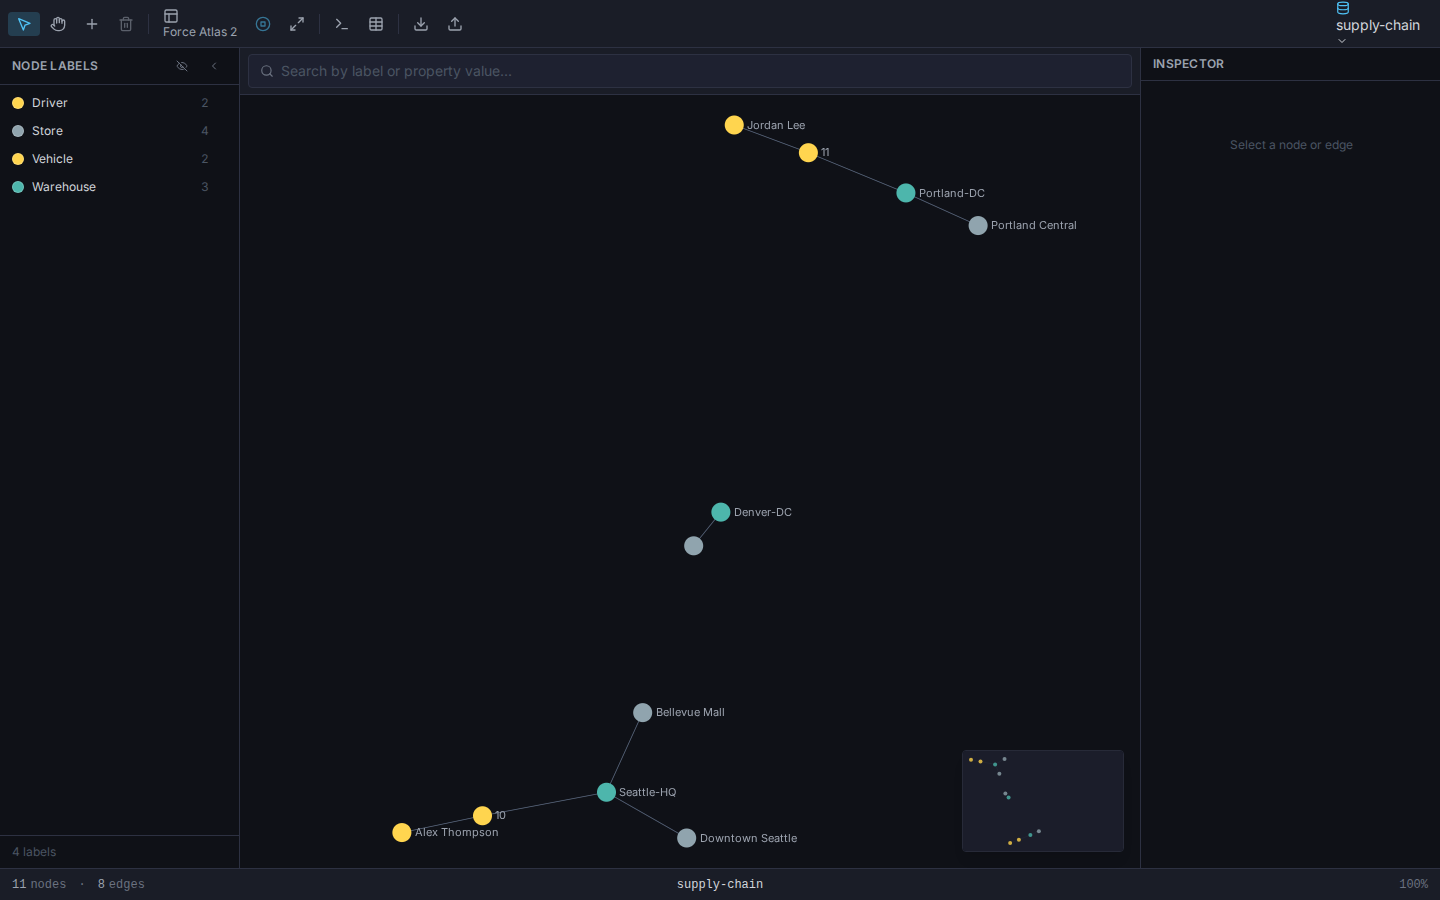
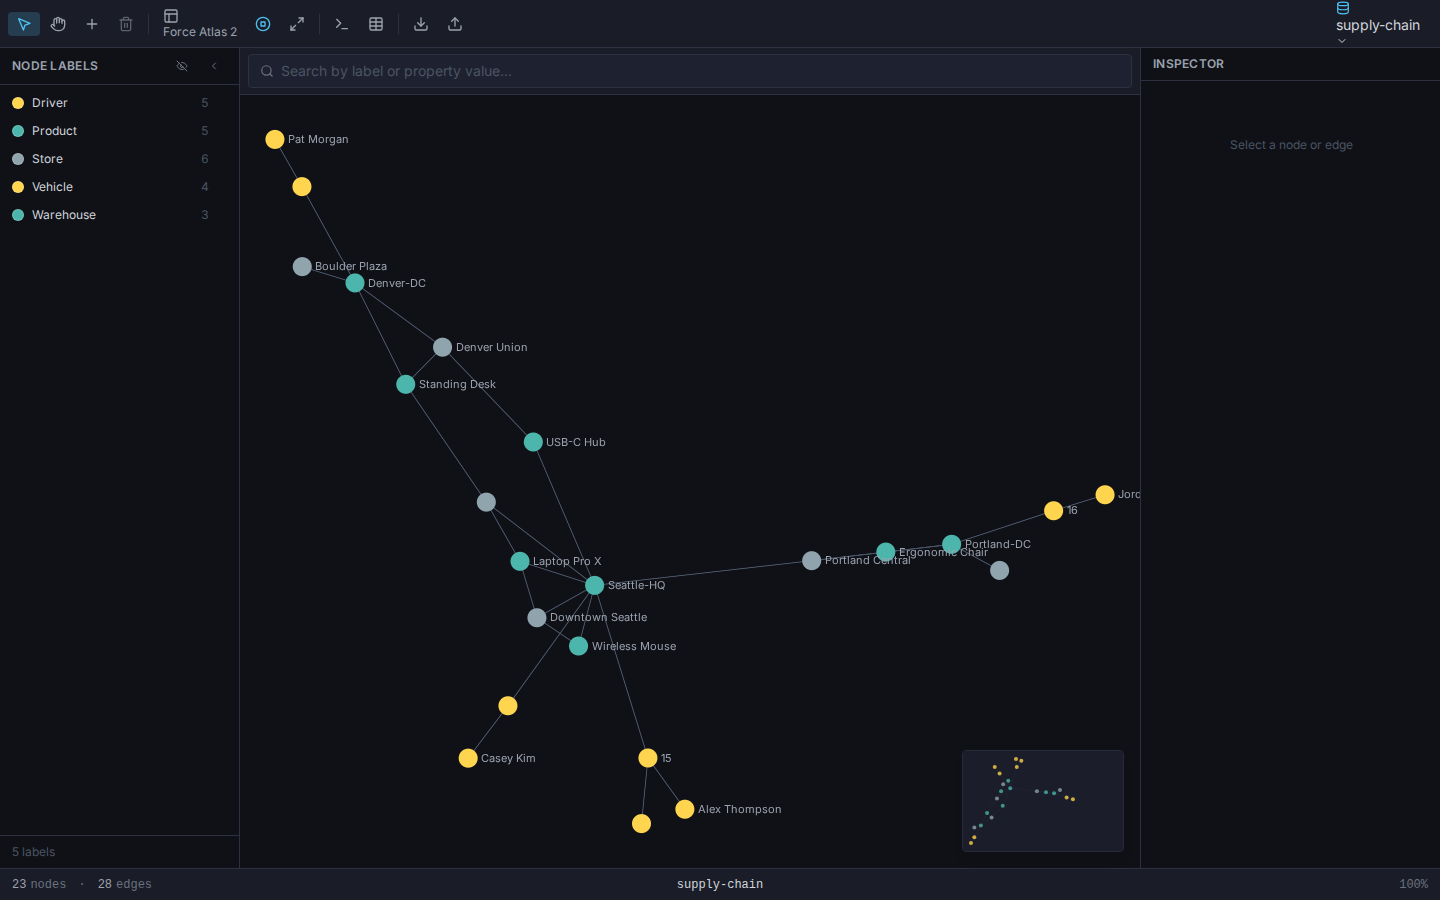
fix(docs): use absolute paths for images, update screenshots with full graph
- Fix all 13 image references to use site-root-absolute paths
  (/graph-visualizer/images/X.png) instead of broken [screenshots] refs
- Update 3 screenshots with the full 23-node supply chain graph
  (previously only showed partial data)
- Ensures images render on both GitHub Pages and GitHub markdown viewer

diff --git a/docs/graph-visualizer/tutorial.md b/docs/graph-visualizer/tutorial.md
@@ -2,7 +2,6 @@
 
 This tutorial walks you through every feature of the Graph Visualizer using a pre-built supply chain demo graph with 23 nodes and 28 edges.
 
-[screenshots]: https://github.com/cloud-ecosystem-security/SedanDelivery/releases/download/screenshots-v1
 
 ## Quick Start
 
@@ -19,7 +18,7 @@ cd sedan-graph-ui/src/sedan-web && VITE_PROXY_TARGET=http://localhost:3001 VITE_
 
 When you first open the app, you'll see the dark-mode interface with the toolbar across the top, the legend panel on the left, the graph canvas in the center, and the inspector panel on the right.
 
-![App loaded — dark mode UI with toolbar, legend, canvas, and inspector][screenshots]/01-app-loaded.png)
+![App loaded — dark mode UI with toolbar, legend, canvas, and inspector](/graph-visualizer/images/01-app-loaded.png)
 
 The status bar at the bottom shows **0 nodes · 0 edges** because no graph is selected yet.
 
@@ -27,7 +26,7 @@ The status bar at the bottom shows **0 nodes · 0 edges** because no graph is se
 
 Click the **graph selector** in the top-right corner of the toolbar. A dropdown appears showing all available graphs.
 
-![Graph selector dropdown showing available graphs][screenshots]/02-graph-selector.png)
+![Graph selector dropdown showing available graphs](/graph-visualizer/images/02-graph-selector.png)
 
 Select **supply-chain** from the list. The graph data loads and the canvas populates with nodes and edges.
 
@@ -42,7 +41,7 @@ The canvas now shows the supply chain network rendered with WebGL (Sigma.js). No
 
 Edges connect warehouses to stores (DELIVERS_TO), drivers to vehicles (DRIVES), and vehicles to warehouses (ASSIGNED_TO). The **minimap** in the bottom-right corner shows an overview of the entire graph.
 
-![Supply chain graph visualization with nodes, edges, legend, and minimap][screenshots]/03-supply-chain-loaded.png)
+![Supply chain graph visualization with nodes, edges, legend, and minimap](/graph-visualizer/images/03-supply-chain-loaded.png)
 
 **Try these interactions:**
 - **Click a node** to select it — the Inspector Panel on the right shows its labels, properties, and connection count
@@ -54,7 +53,7 @@ Edges connect warehouses to stores (DELIVERS_TO), drivers to vehicles (DRIVES), 
 
 The **legend panel** on the left lists all node labels with colored dots and counts.
 
-![Legend panel showing Driver, Store, Vehicle, Warehouse labels with colors][screenshots]/04-legend-labels.png)
+![Legend panel showing Driver, Store, Vehicle, Warehouse labels with colors](/graph-visualizer/images/04-legend-labels.png)
 
 - Click the **eye icon** next to a label to hide those nodes
 - Click it again to show them
@@ -66,15 +65,15 @@ This is useful for focusing on specific parts of the supply chain — for exampl
 
 Click the **query editor** button in the toolbar (the `>_` terminal icon) to open the Monaco Cypher editor at the bottom of the screen.
 
-![Cypher editor opened with Monaco syntax highlighting][screenshots]/05-editor-opened.png)
+![Cypher editor opened with Monaco syntax highlighting](/graph-visualizer/images/05-editor-opened.png)
 
 Type a Cypher query. The editor provides syntax highlighting for keywords like `MATCH`, `RETURN`, `WHERE`, and `ORDER BY`.
 
-![Cypher query typed with syntax highlighting][screenshots]/05-query-typed.png)
+![Cypher query typed with syntax highlighting](/graph-visualizer/images/05-query-typed.png)
 
 Click **Execute** (or press **Ctrl+Enter**) to run the query. Results appear below the editor.
 
-![Query results displayed in a table][screenshots]/05-query-results.png)
+![Query results displayed in a table](/graph-visualizer/images/05-query-results.png)
 
 ### Try these queries:
 
@@ -110,7 +109,7 @@ ORDER BY s.revenue
 
 Click the **Schema** button in the toolbar (table icon) to see an overview of the graph structure.
 
-![Schema panel showing labels and relationship types][screenshots]/06-schema-panel.png)
+![Schema panel showing labels and relationship types](/graph-visualizer/images/06-schema-panel.png)
 
 The schema panel shows:
 - **Labels**: Warehouse (3), Store (6), Driver (5), Vehicle (4), Product (5)
@@ -123,13 +122,13 @@ Use the **search bar** at the top of the canvas area. The search detects whether
 - Type `Warehouse` (capitalized) → label search: finds all Warehouse nodes
 - Type `seattle` (lowercase) → property search: finds nodes with "seattle" in any property
 
-![Search results for Warehouse label][screenshots]/07-search-results.png)
+![Search results for Warehouse label](/graph-visualizer/images/07-search-results.png)
 
 ## Step 8: Create a New Node
 
 Click the **Add Node** button in the toolbar (+ icon) to open the create node dialog.
 
-![Add Node dialog with label and property fields][screenshots]/09-add-node-dialog.png)
+![Add Node dialog with label and property fields](/graph-visualizer/images/09-add-node-dialog.png)
 
 Fill in:
 - **Labels**: `Store`
@@ -141,7 +140,7 @@ Click **Create**. The new node appears in the canvas.
 
 Click the **layout dropdown** in the toolbar to switch between layout algorithms.
 
-![Layout algorithm dropdown — ForceAtlas2, Circular, Random][screenshots]/10-layout-dropdown.png)
+![Layout algorithm dropdown — ForceAtlas2, Circular, Random](/graph-visualizer/images/10-layout-dropdown.png)
 
 Available layouts:
 - **ForceAtlas2** (default) — force-directed layout that clusters connected nodes together
@@ -152,7 +151,7 @@ Available layouts:
 
 Click the **Export** button in the toolbar (download icon) to open the export dialog.
 
-![Export dialog with JSON format option][screenshots]/08-export-dialog.png)
+![Export dialog with JSON format option](/graph-visualizer/images/08-export-dialog.png)
 
 Select **JSON** format and click **Export** to download the full graph as a JSON file containing all nodes and edges with their properties.
 
@@ -171,7 +170,7 @@ Click **Execute**. The editor detects this as a mutation (starts with `MATCH ...
 
 Here's the complete interface with all panels visible:
 
-![Full UI overview — toolbar, legend, canvas with graph, inspector, status bar][screenshots]/10-full-ui-overview.png)
+![Full UI overview — toolbar, legend, canvas with graph, inspector, status bar](/graph-visualizer/images/10-full-ui-overview.png)
 
 ## Demo Data Model
 
